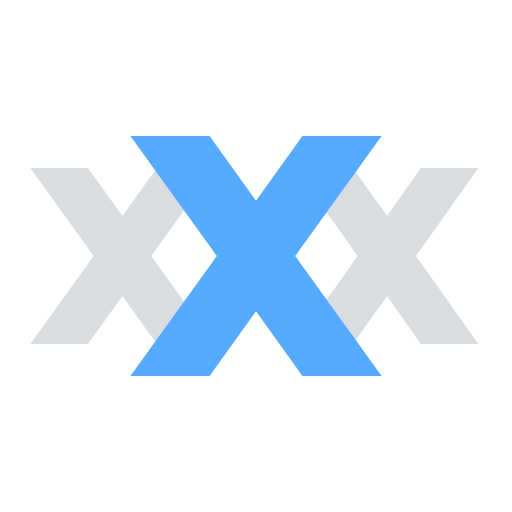
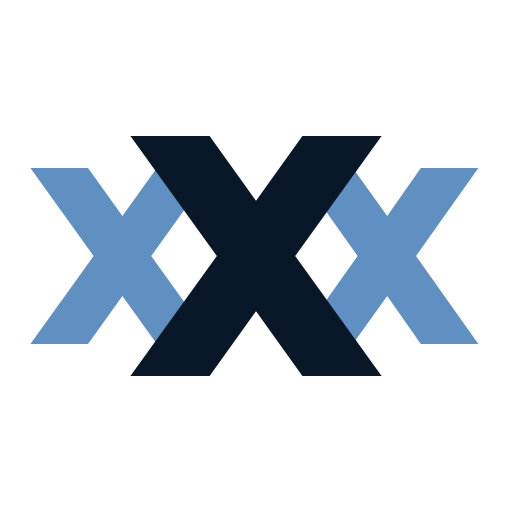
Make the app password protected

Changed region(s): [[0.0625, 0.25, 0.9375, 0.75]]

diff --git a/app/components/AuthGuard.tsx b/app/components/AuthGuard.tsx
@@ -1,0 +1,92 @@
+"use client";
+import { useState, useEffect } from "react";
+import { Lock } from "lucide-react";
+
+export default function AuthGuard({ children }: { children: React.ReactNode }) {
+  const [unlocked, setUnlocked] = useState(false);
+  const [checked, setChecked] = useState(false);
+  const [password, setPassword] = useState("");
+  const [error, setError] = useState("");
+  const [loading, setLoading] = useState(false);
+
+  useEffect(() => {
+    const auth = sessionStorage.getItem("auth");
+    if (auth === "true") {
+      setUnlocked(true);
+    }
+    setChecked(true);
+  }, []);
+
+  const handleSubmit = async () => {
+    if (!password.trim()) return;
+    setLoading(true);
+    setError("");
+
+    const res = await fetch("/api/auth", {
+      method: "POST",
+      headers: { "Content-Type": "application/json" },
+      body: JSON.stringify({ password }),
+    });
+
+    if (res.ok) {
+      sessionStorage.setItem("auth", "true");
+      setUnlocked(true);
+    } else {
+      setError("Wrong password");
+    }
+    setLoading(false);
+  };
+
+  const handleKeyDown = (e: React.KeyboardEvent<HTMLInputElement>) => {
+    if (e.key === "Enter") handleSubmit();
+  };
+
+  if (!checked) return null;
+
+  if (!unlocked) {
+    return (
+      <div className="flex items-center justify-center h-screen w-screen bg-gray-50">
+        <div className="bg-white rounded-2xl border border-gray-200 shadow-sm p-8 w-full max-w-sm flex flex-col items-center gap-6">
+          <div className="w-12 h-12 rounded-xl bg-[#1a1a2e] flex items-center justify-center shadow-md">
+            <span className="text-white font-bold text-xl">X</span>
+          </div>
+          <div className="text-center">
+            <h1 className="text-lg font-semibold text-gray-900">X Stream</h1>
+            <p className="text-xs text-gray-400 mt-1">
+              Enter password to continue
+            </p>
+          </div>
+          <div className="w-full flex flex-col gap-3">
+            <div className="relative">
+              <Lock
+                size={14}
+                className="absolute left-3 top-1/2 -translate-y-1/2 text-gray-400"
+              />
+              <input
+                type="password"
+                value={password}
+                onChange={(e) => setPassword(e.target.value)}
+                onKeyDown={handleKeyDown}
+                placeholder="Password"
+                autoFocus
+                className="w-full pl-9 pr-4 py-2.5 text-sm rounded-lg border border-gray-200 bg-gray-50 text-gray-800 placeholder-gray-400 outline-none focus:border-[#1a1a2e] transition-colors"
+              />
+            </div>
+            {error && (
+              <p className="text-xs text-red-500 text-center">{error}</p>
+            )}
+            <button
+              onClick={handleSubmit}
+              disabled={loading || !password.trim()}
+              className="w-full py-2.5 rounded-lg bg-[#1a1a2e] text-white text-sm font-medium hover:opacity-90 transition-opacity disabled:opacity-40 cursor-pointer"
+            >
+              {loading ? "Checking..." : "Unlock"}
+            </button>
+          </div>
+        </div>
+      </div>
+    );
+  }
+
+  return <>{children}</>;
+}

diff --git a/app/login/page.tsx b/app/login/page.tsx
@@ -1,0 +1,81 @@
+"use client";
+import { useState } from "react";
+import { useRouter } from "next/navigation";
+import { Lock } from "lucide-react";
+
+export default function LoginPage() {
+  const [password, setPassword] = useState("");
+  const [error, setError] = useState("");
+  const [loading, setLoading] = useState(false);
+  const router = useRouter();
+
+  const handleSubmit = async () => {
+    if (!password.trim()) return;
+    setLoading(true);
+    setError("");
+
+    const res = await fetch("/api/auth", {
+      method: "POST",
+      headers: { "Content-Type": "application/json" },
+      body: JSON.stringify({ password }),
+    });
+
+    if (res.ok) {
+      router.push("/");
+      router.refresh();
+    } else {
+      setError("Wrong password");
+      setLoading(false);
+    }
+  };
+
+  const handleKeyDown = (e: React.KeyboardEvent<HTMLInputElement>) => {
+    if (e.key === "Enter") handleSubmit();
+  };
+
+  return (
+    <div className="flex items-center justify-center h-screen bg-gray-50">
+      <div className="bg-white rounded-2xl border border-gray-200 shadow-sm p-8 w-full max-w-sm flex flex-col items-center gap-6">
+        {/* Logo */}
+        <div className="w-12 h-12 rounded-xl bg-[#1a1a2e] flex items-center justify-center shadow-md">
+          <span className="text-white font-bold text-xl">X</span>
+        </div>
+
+        <div className="text-center">
+          <h1 className="text-lg font-semibold text-gray-900">X Stream</h1>
+          <p className="text-xs text-gray-400 mt-1">
+            Enter password to continue
+          </p>
+        </div>
+
+        <div className="w-full flex flex-col gap-3">
+          <div className="relative">
+            <Lock
+              size={14}
+              className="absolute left-3 top-1/2 -translate-y-1/2 text-gray-400"
+            />
+            <input
+              type="password"
+              value={password}
+              onChange={(e) => setPassword(e.target.value)}
+              onKeyDown={handleKeyDown}
+              placeholder="Password"
+              autoFocus
+              className="w-full pl-9 pr-4 py-2.5 text-sm rounded-lg border border-gray-200 bg-gray-50 text-gray-800 placeholder-gray-400 outline-none focus:border-[#1a1a2e] transition-colors"
+            />
+          </div>
+
+          {error && <p className="text-xs text-red-500 text-center">{error}</p>}
+
+          <button
+            onClick={handleSubmit}
+            disabled={loading || !password.trim()}
+            className="w-full py-2.5 rounded-lg bg-[#1a1a2e] text-white text-sm font-medium hover:opacity-90 transition-opacity disabled:opacity-40 cursor-pointer"
+          >
+            {loading ? "Checking..." : "Unlock"}
+          </button>
+        </div>
+      </div>
+    </div>
+  );
+}

diff --git a/app/layout.tsx b/app/layout.tsx
@@ -23,18 +23,22 @@ export const metadata: Metadata = {
   },
 };
 
+import AuthGuard from "./components/AuthGuard";
+
 export default function RootLayout({
   children,
-}: Readonly<{
+}: {
   children: React.ReactNode;
-}>) {
+}) {
   return (
     <html lang="en">
       <body
         className={`${geistSans.variable} ${geistMono.variable} antialiased flex h-screen overflow-hidden`}
       >
-        <LeftPanel />
-        <main className="flex-1 min-w-0 overflow-hidden">{children}</main>{" "}
+        <AuthGuard>
+          <LeftPanel />
+          <main className="flex-1 min-w-0 overflow-hidden">{children}</main>
+        </AuthGuard>
       </body>
     </html>
   );

diff --git a/app/api/auth/route.ts b/app/api/auth/route.ts
@@ -1,0 +1,11 @@
+import { NextRequest, NextResponse } from "next/server";
+
+export async function POST(request: NextRequest) {
+  const { password } = await request.json();
+
+  if (password === process.env.APP_PASSWORD) {
+    return NextResponse.json({ success: true });
+  }
+
+  return NextResponse.json({ error: "Wrong password" }, { status: 401 });
+}

diff --git a/app/login/layout.tsx b/app/login/layout.tsx
@@ -1,0 +1,7 @@
+export default function LoginLayout({
+  children,
+}: {
+  children: React.ReactNode;
+}) {
+  return <>{children}</>;
+}
